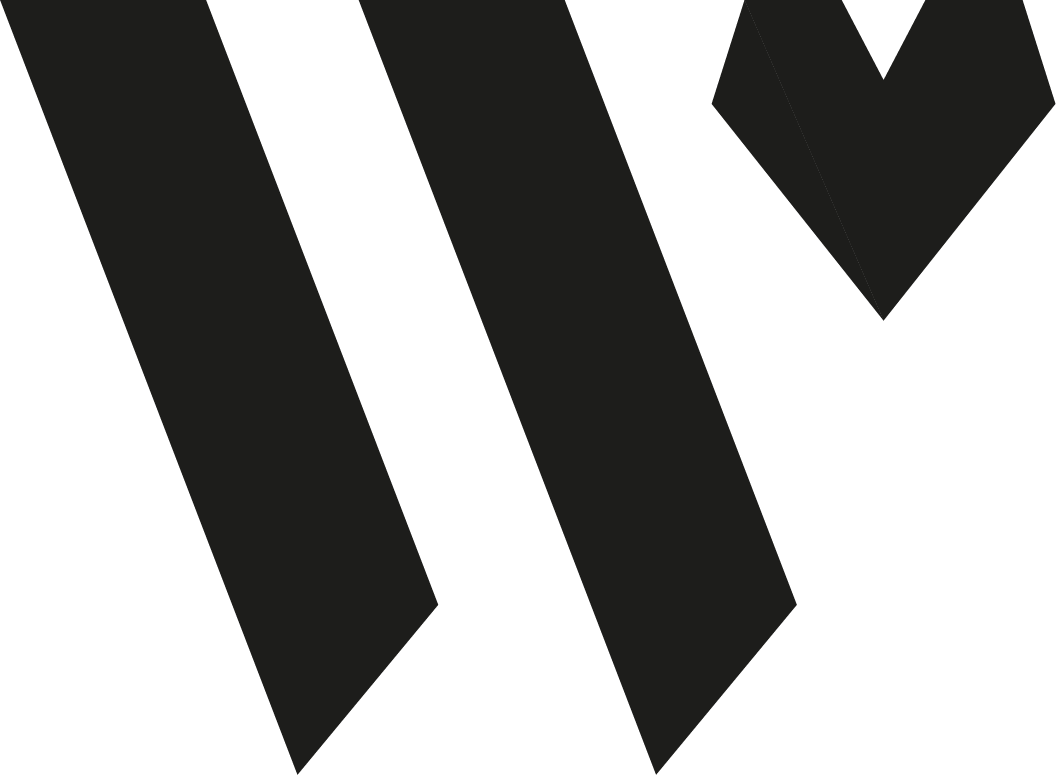
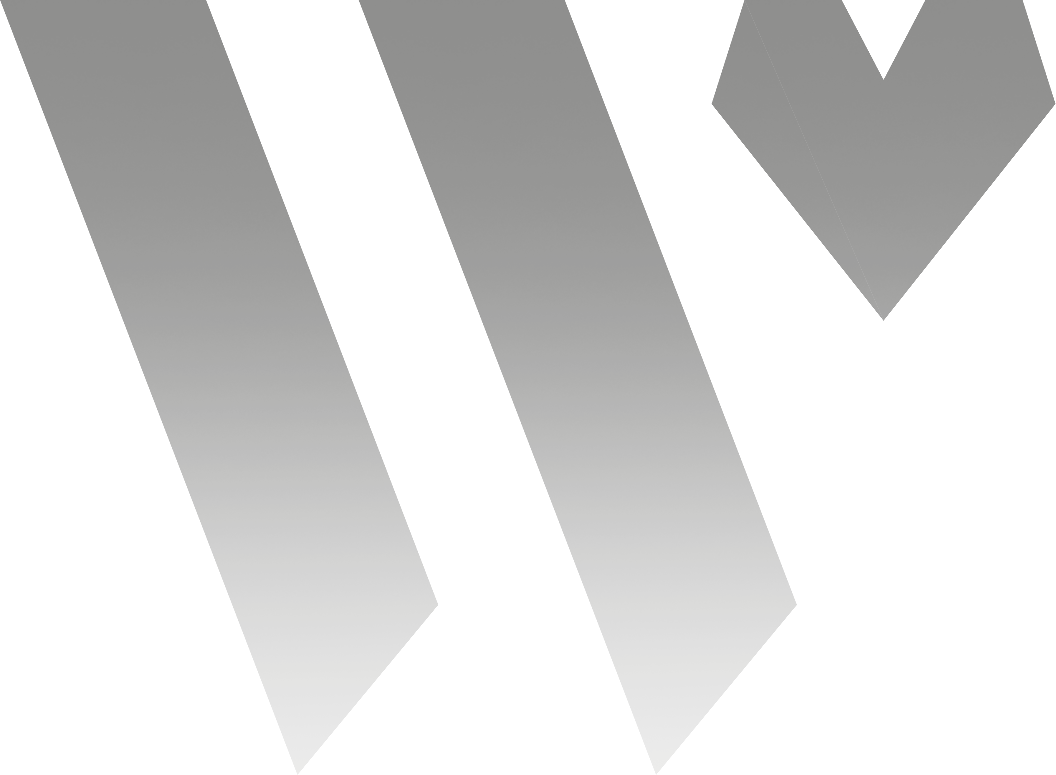
wir2 css

diff --git a/dev-b-wir2events/css/style.css b/dev-b-wir2events/css/style.css
@@ -69,7 +69,7 @@ html {
 	height: 100%;
 	width: 100%;
 	margin: auto;
-	background-image:url('../img/wir2-backdrop2.png');
+	background-image:url('../img/wir2-backdrop.png');
 	background-size: contain;
 	background-repeat: no-repeat;
 	background-position: center;
